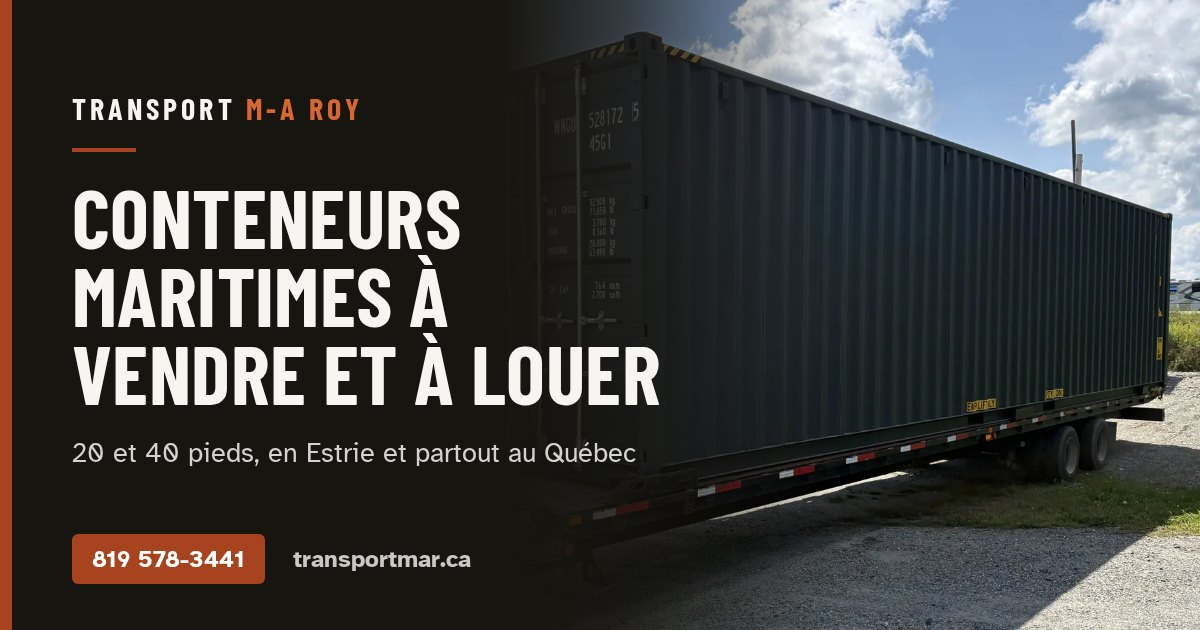
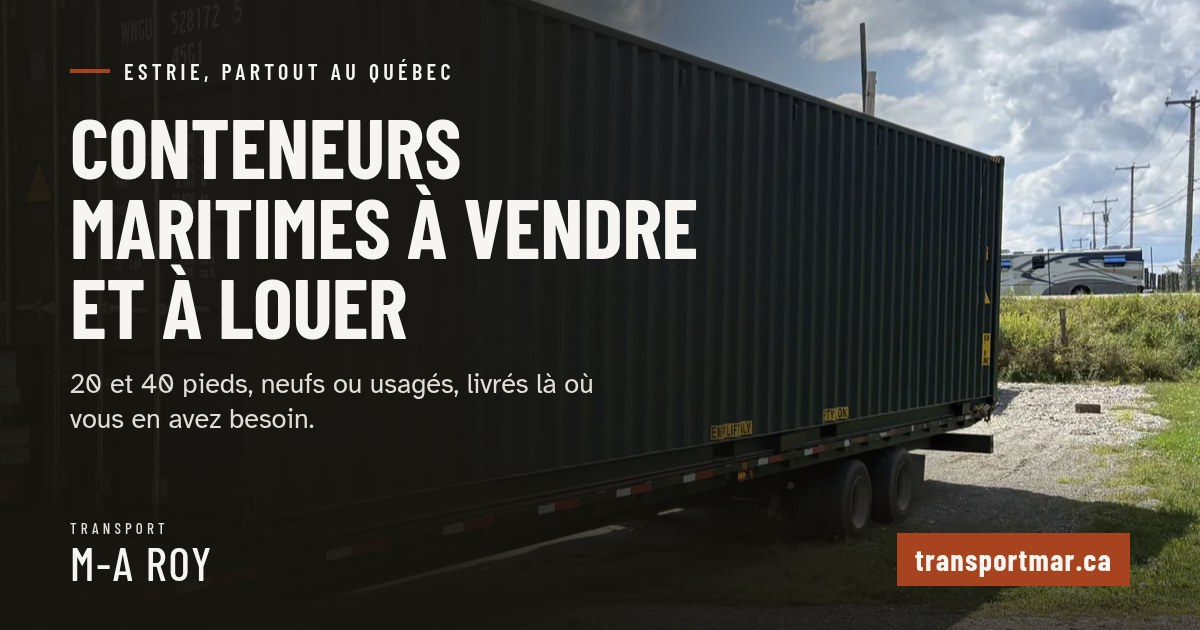
Image de partage: option A de Design graphique, texte alternatif FR et EN par langue, og:locale en_CA sur les pages anglaises

diff --git a/src/lib/metadata.ts b/src/lib/metadata.ts
@@ -1,4 +1,10 @@
-import { getTranslations } from "next-intl/server";
+import { getLocale, getTranslations } from "next-intl/server";
+
+const OG_IMAGE = "/og/transport-ma-roy-partage-1200x630.jpg";
+const OG_ALT = {
+  fr: "Conteneur maritime de 40 pieds sur une remorque, avec le texte Conteneurs maritimes à vendre et à louer de Transport M-A Roy.",
+  en: "A 40 foot shipping container on a trailer, with the Transport M-A Roy text Shipping containers for sale and rent.",
+};
 
 export async function pageMeta(
   key:
@@ -13,8 +19,24 @@ export async function pageMeta(
   const titleKey = `${key}Title` as const;
   const descriptionKey = `${key}Description` as const;
 
+  const locale = await getLocale();
+  const isEn = locale === "en";
+
   return {
     title: t(titleKey),
     description: t(descriptionKey),
+    openGraph: {
+      type: "website",
+      siteName: "Transport M-A Roy",
+      locale: isEn ? "en_CA" : "fr_CA",
+      images: [
+        {
+          url: OG_IMAGE,
+          width: 1200,
+          height: 630,
+          alt: isEn ? OG_ALT.en : OG_ALT.fr,
+        },
+      ],
+    },
   };
 }

diff --git a/src/app/layout.tsx b/src/app/layout.tsx
@@ -28,7 +28,7 @@ export const metadata: Metadata = {
         url: "/og/transport-ma-roy-partage-1200x630.jpg",
         width: 1200,
         height: 630,
-        alt: "Conteneur maritime 40 pieds vert sur remorque, Transport M-A Roy, conteneurs à vendre et à louer en Estrie",
+        alt: "Conteneur maritime de 40 pieds sur une remorque, avec le texte Conteneurs maritimes à vendre et à louer de Transport M-A Roy.",
       },
     ],
   },
